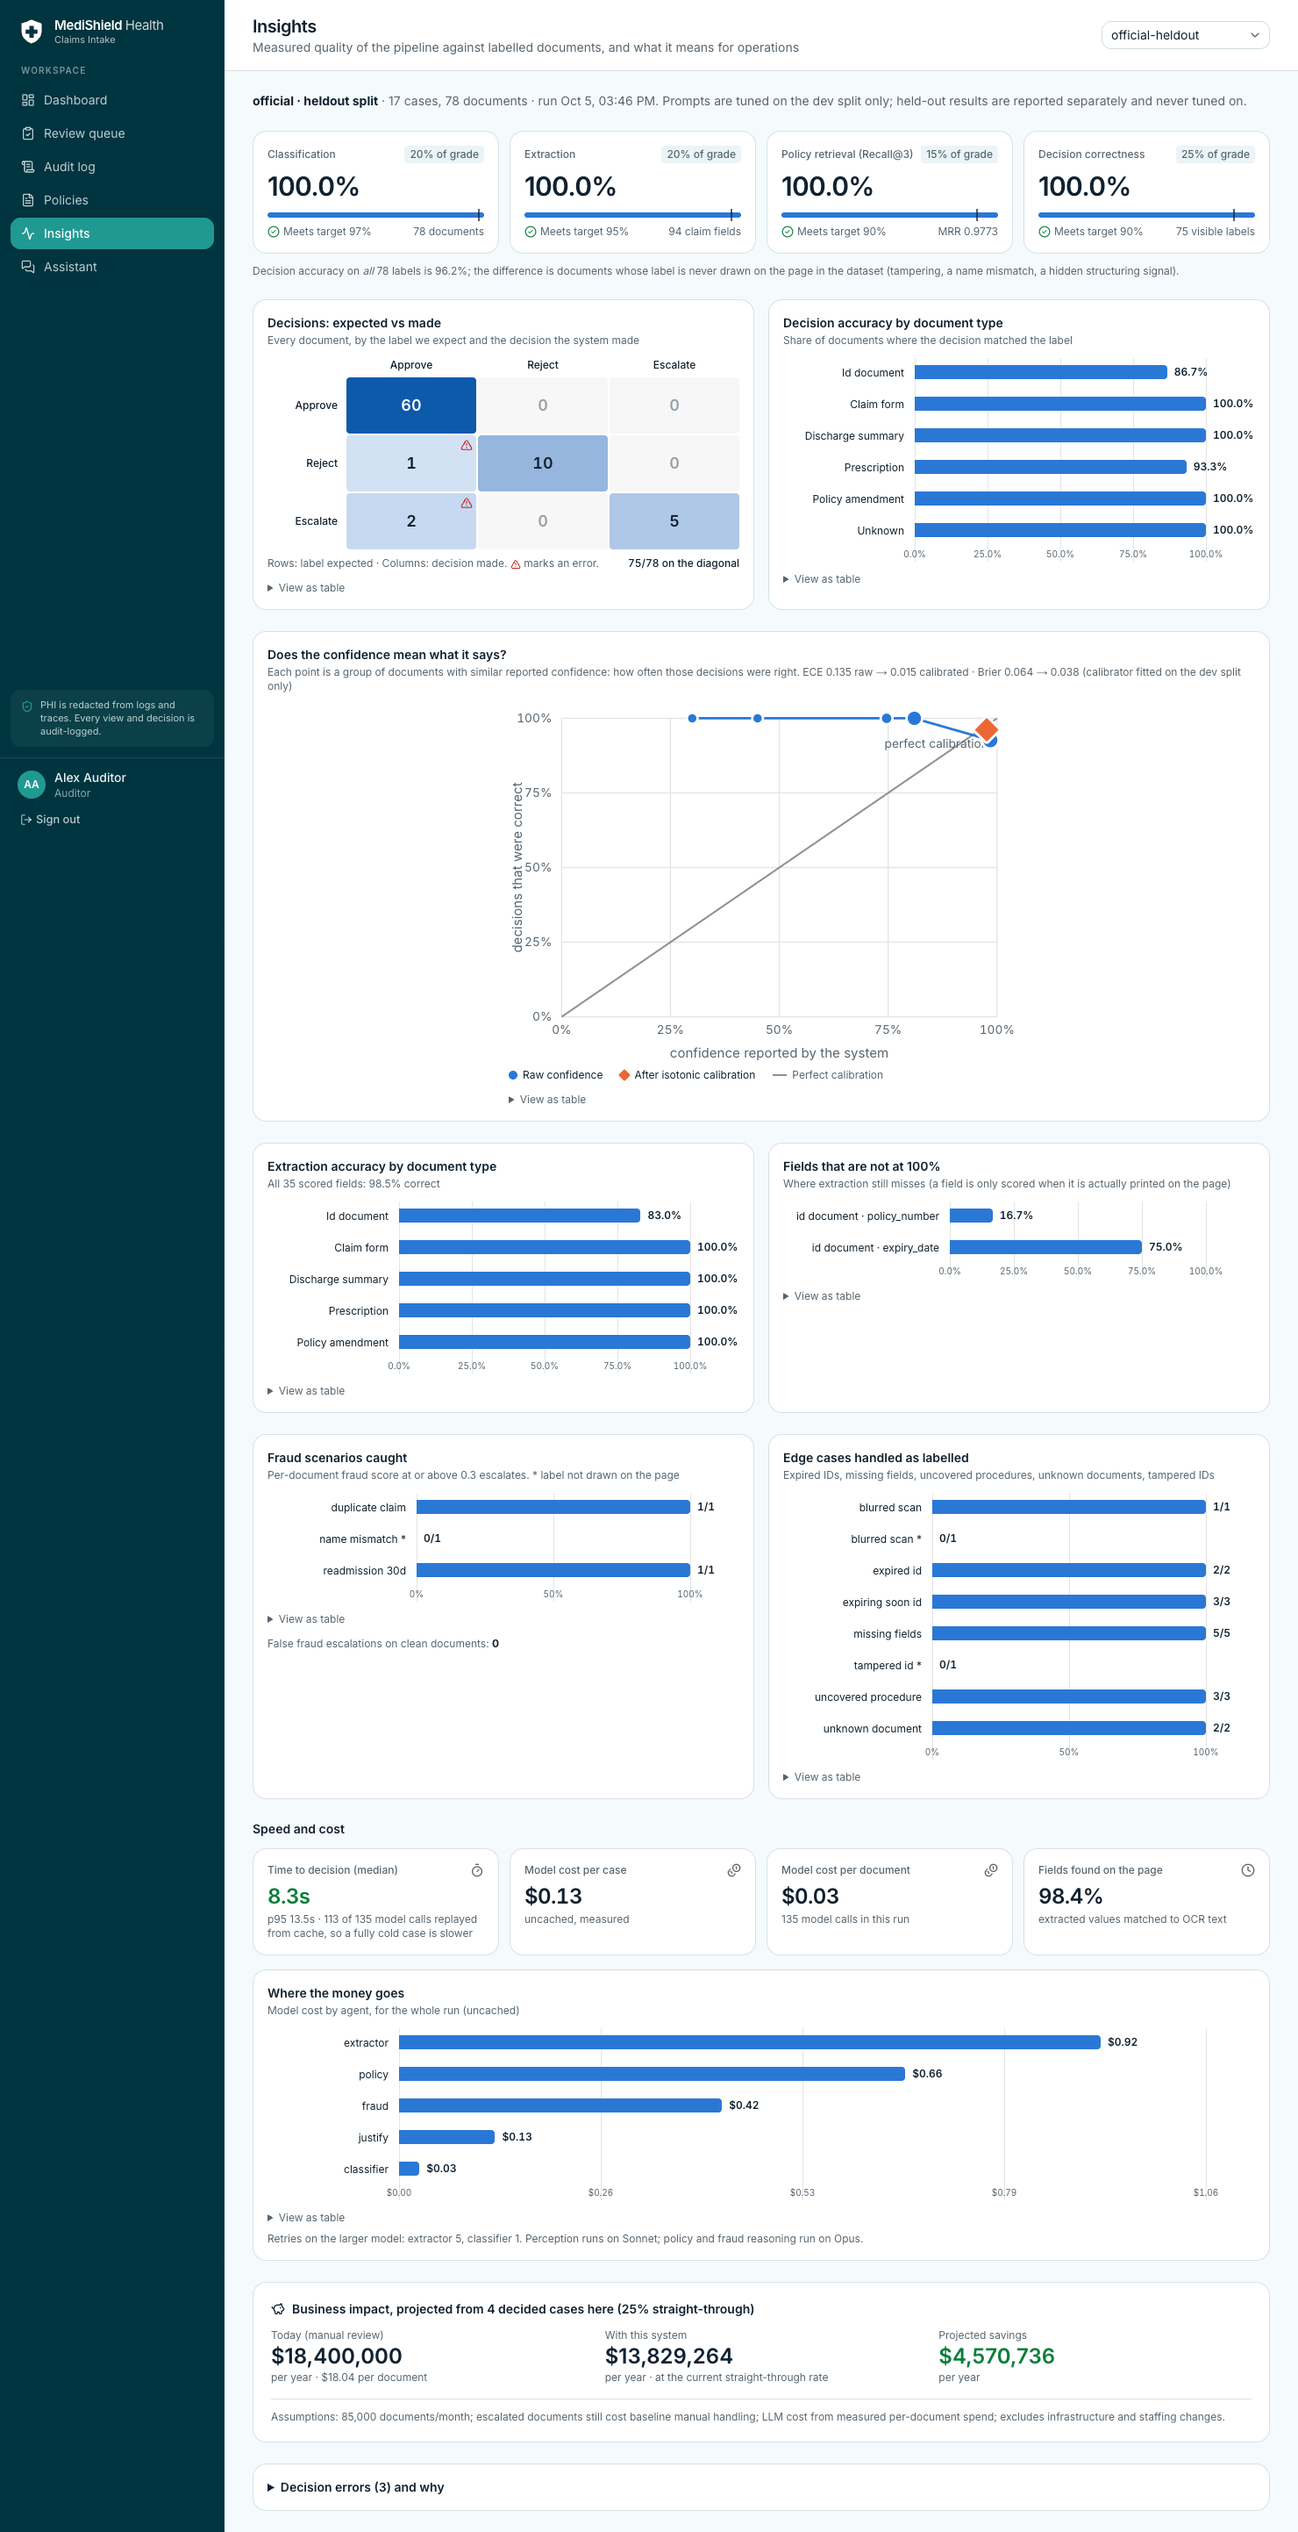
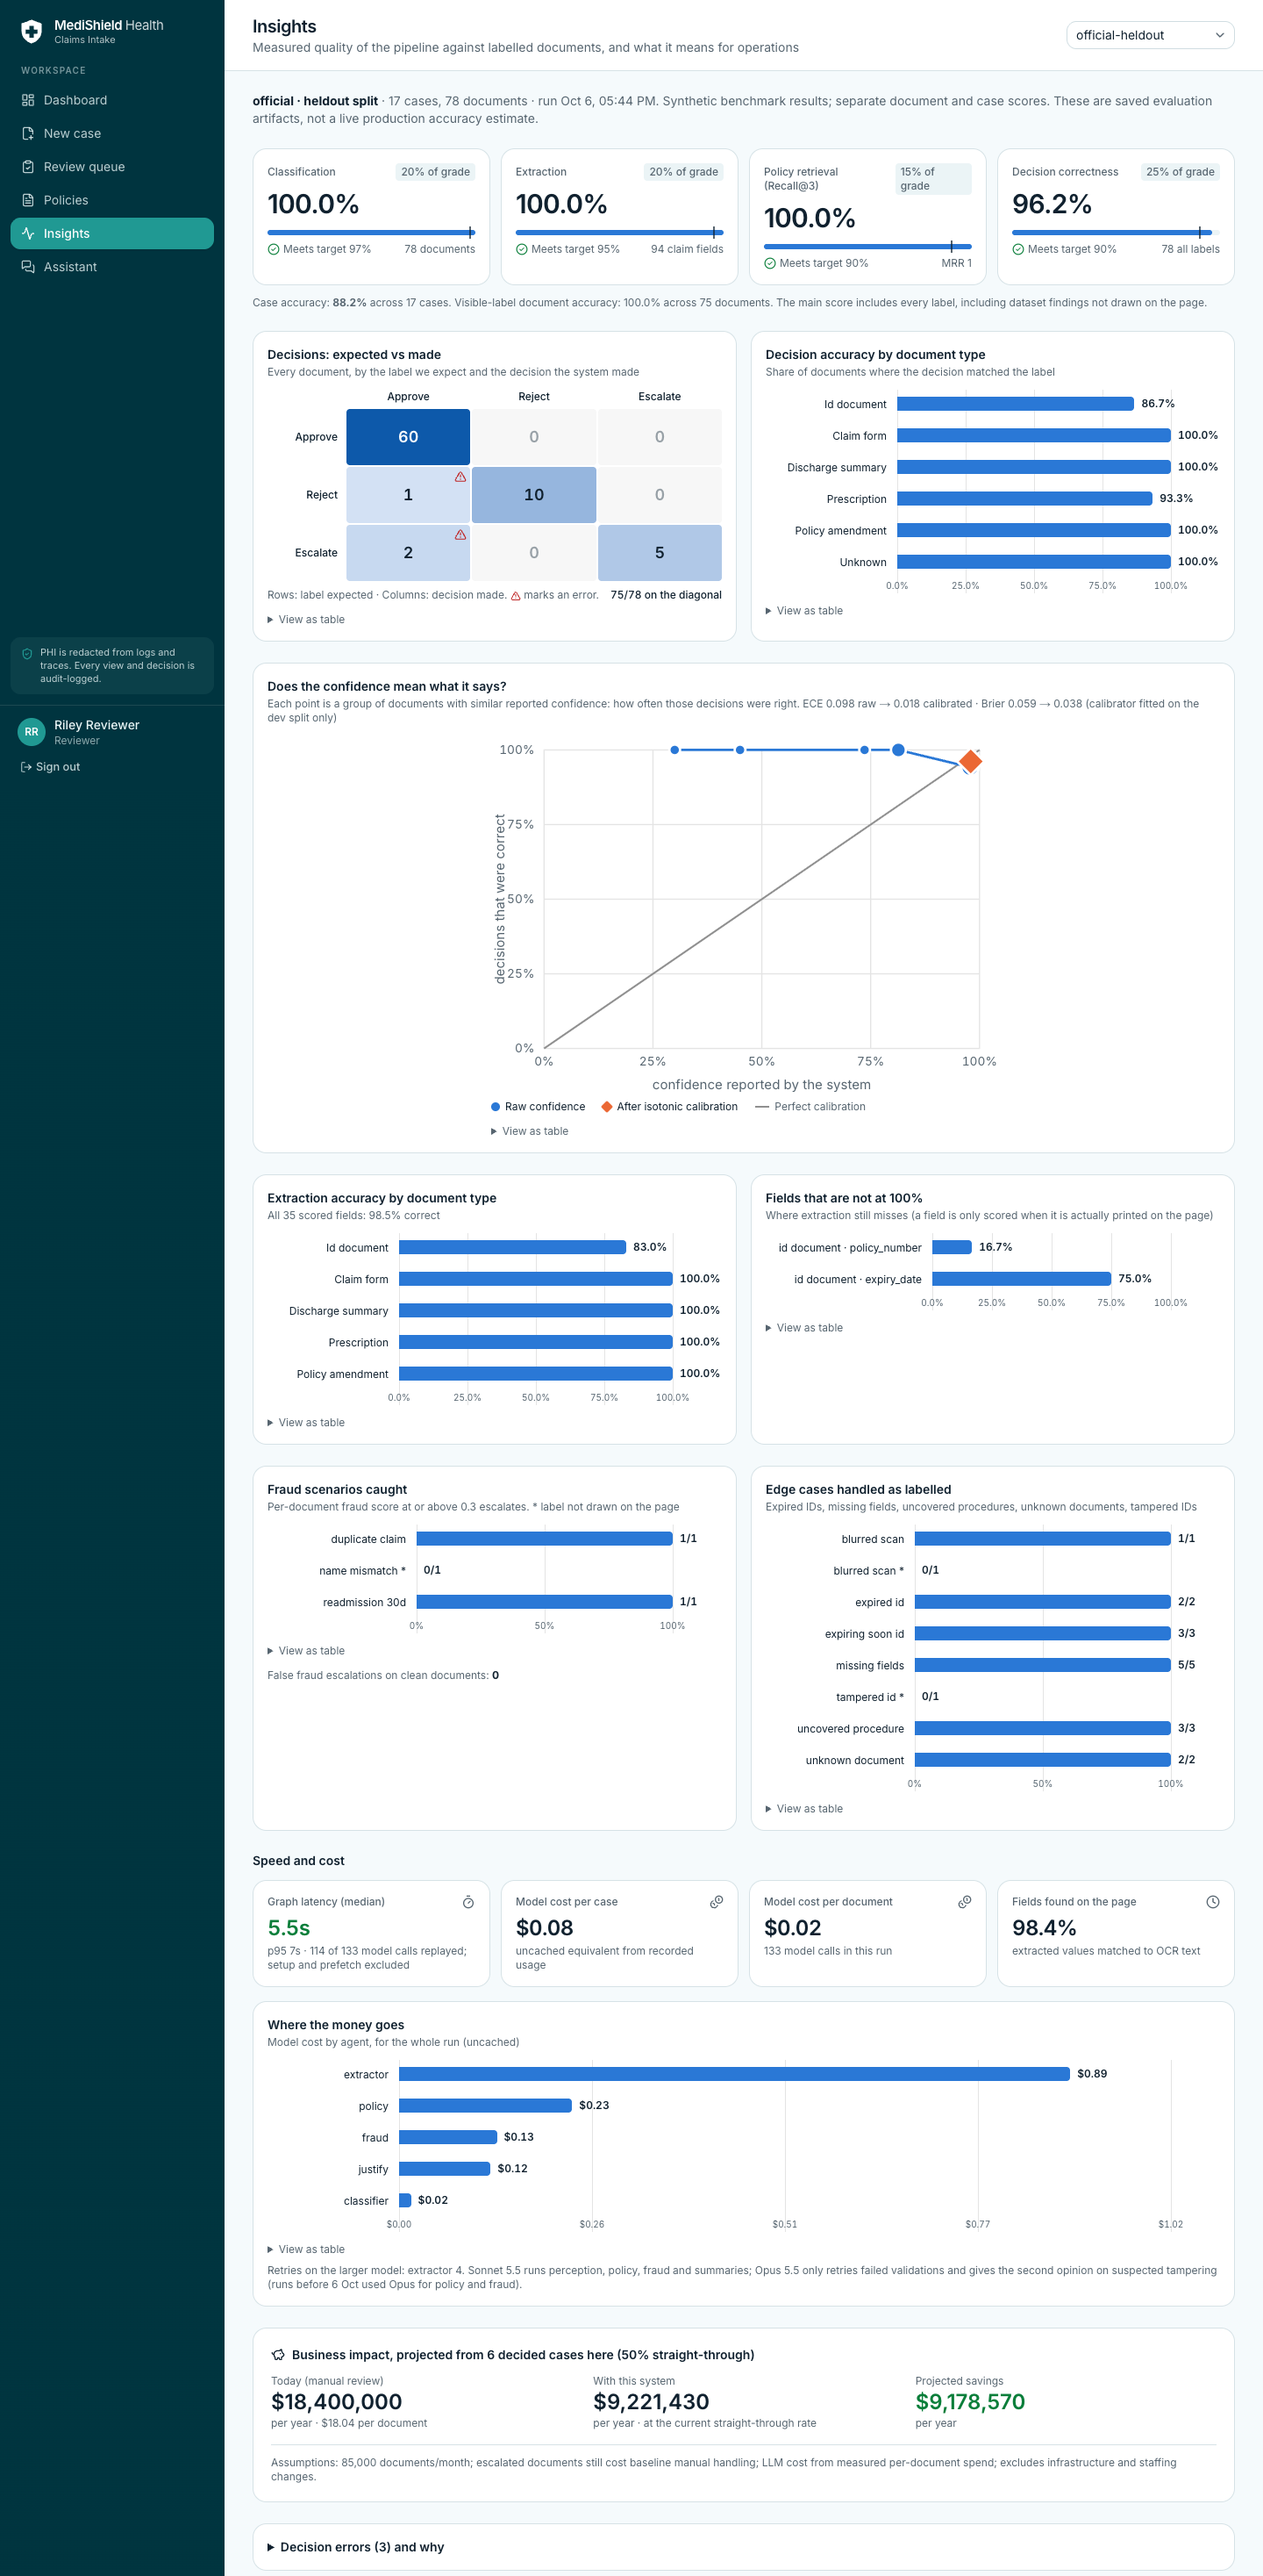
Live check after deploy recorded; Insights screenshot from the live site with the OCR-first numbers

diff --git a/docs/IMPLEMENTATION_REVIEW.md b/docs/IMPLEMENTATION_REVIEW.md
@@ -16,17 +16,19 @@ This revision closes unsafe approval paths and corrects the presentation of the 
 
 | Check | Result |
 |---|---|
-| SQLite deterministic suite | 303 passed, 2 integration tests deselected |
+| SQLite deterministic suite | 303 passed, 2 integration tests deselected (also with an invalid API key) |
 | DynamoDB/moto suite | 302 passed, 1 backend-specific skip, 2 integration tests deselected |
 | Real pipeline offline replay | 2 passed: upload, OCR/RAG/graph, review/resume, duplicate detection, audit and PDF |
 | Saved evaluation artifact gates | 21/21 passed; these do not run fresh LLM evaluations |
 | Python lint | Passed |
 | Frontend ESLint, TypeScript, production build and static export | Passed |
 | Isolated browser workflow | Approve/reject/escalate visible; high-value override pending until a different senior reviewer approved; audit chain verified; auditor has no override/reclassification controls |
-| Presentation | 12 editable dark slides: 8 main + 4 appendix, ~8-minute script including a 90-second demo; package/layout/font checks passed and all slides inspected after LibreOffice rendering |
+| Presentation | 12 editable dark slides (figures updated to OCR-first on 7 Oct): 8 main + 4 appendix, ~8-minute script including a 90-second demo; package/layout/font checks passed and all slides inspected after LibreOffice rendering |
 | Sample package | 22 original labelled documents, 6 complete cases, 2 policies, fields, records and SHA-256 manifest; `make samples` reproduces it |
 
-The tests use temporary databases, uploads and ledgers. Cloud behavior was not revalidated in this revision.
+The tests use temporary databases, uploads and ledgers, and run with no model access (CI has no API key).
+
+**Live check after the AWS deploy (7 October):** two fresh cases were submitted through the website. C_007 was rejected (excluded procedure code, prescription with missing fields) and C_006 escalated (blurred prescription). Both claim forms showed the new member checks (member found, name, date of birth, active). The Insights page shows the OCR-first numbers, and the assistant answered a coverage question with a citation.
 
 ## Current evaluation and limitations
 
